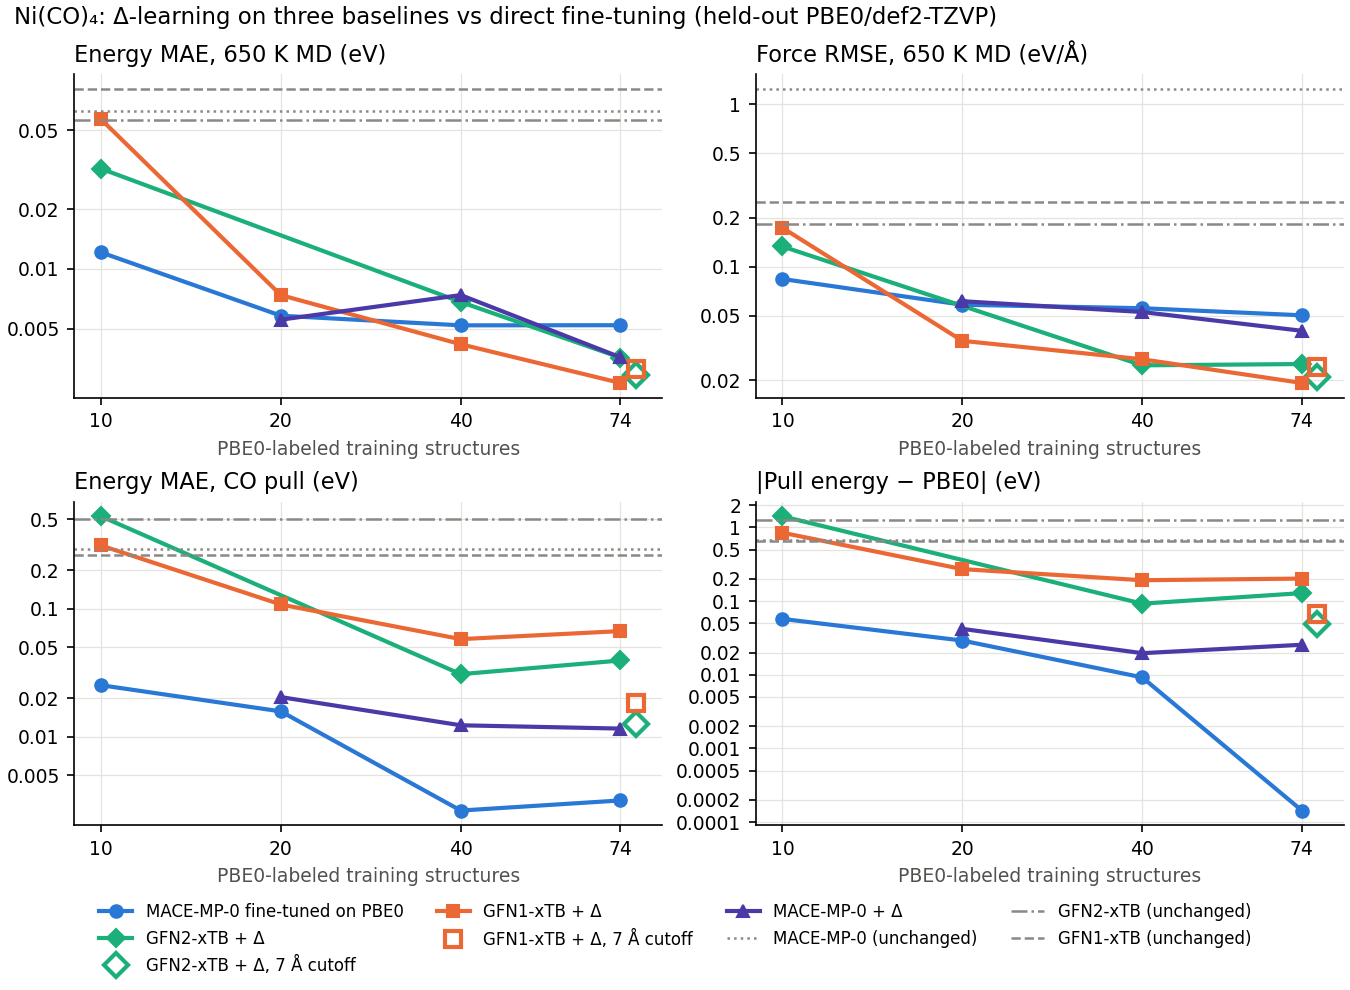
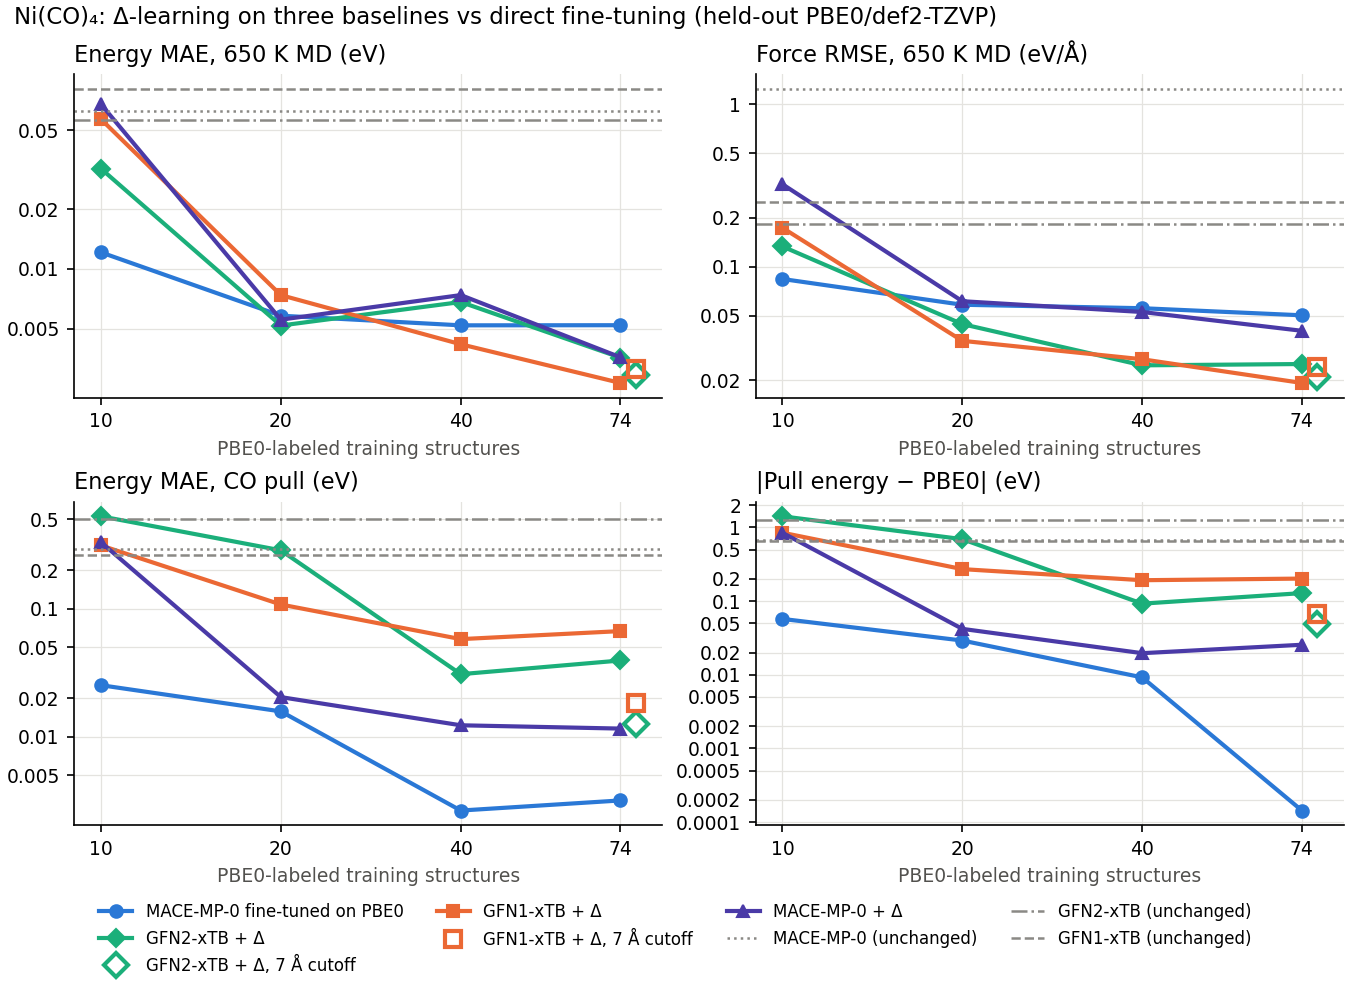
Ni(CO)4 example: the two retrained learning-curve points

diff --git a/examples/delta_nico4/README.md b/examples/delta_nico4/README.md
@@ -83,9 +83,10 @@ they come.*
   baseline's error, not just the range of the chemistry.**
 - **MACE-MP-0 is a poor baseline here, yet MACE-MP-0 + Δ does well.** Its
   errors are short-ranged, because MACE-MP-0 itself has a 6 Å cutoff.
-- Two models are missing from the curves: `delta-gfn2_N20` and
-  `delta-mace_N10` ran out of GPU memory while another job shared the card.
-  Rerun `train.py`; it trains only what is missing.
+- **With very few labels, only the fine-tuned foundation model gets the bond
+  breaking.** At 10 labels every correction misses the pull energy by 0.8–1.4 eV
+  (fine-tuning: 0.06 eV), and GFN2-xTB + Δ still misses by 0.7 eV at 20. The
+  MACE-MP-0 correction is within 0.05 eV from 20 labels on.
 
 What this means for a new transition-metal system: to run MD near a minimum,
 GFN-xTB + Δ gives the best forces from the fewest labels. For bond breaking,
